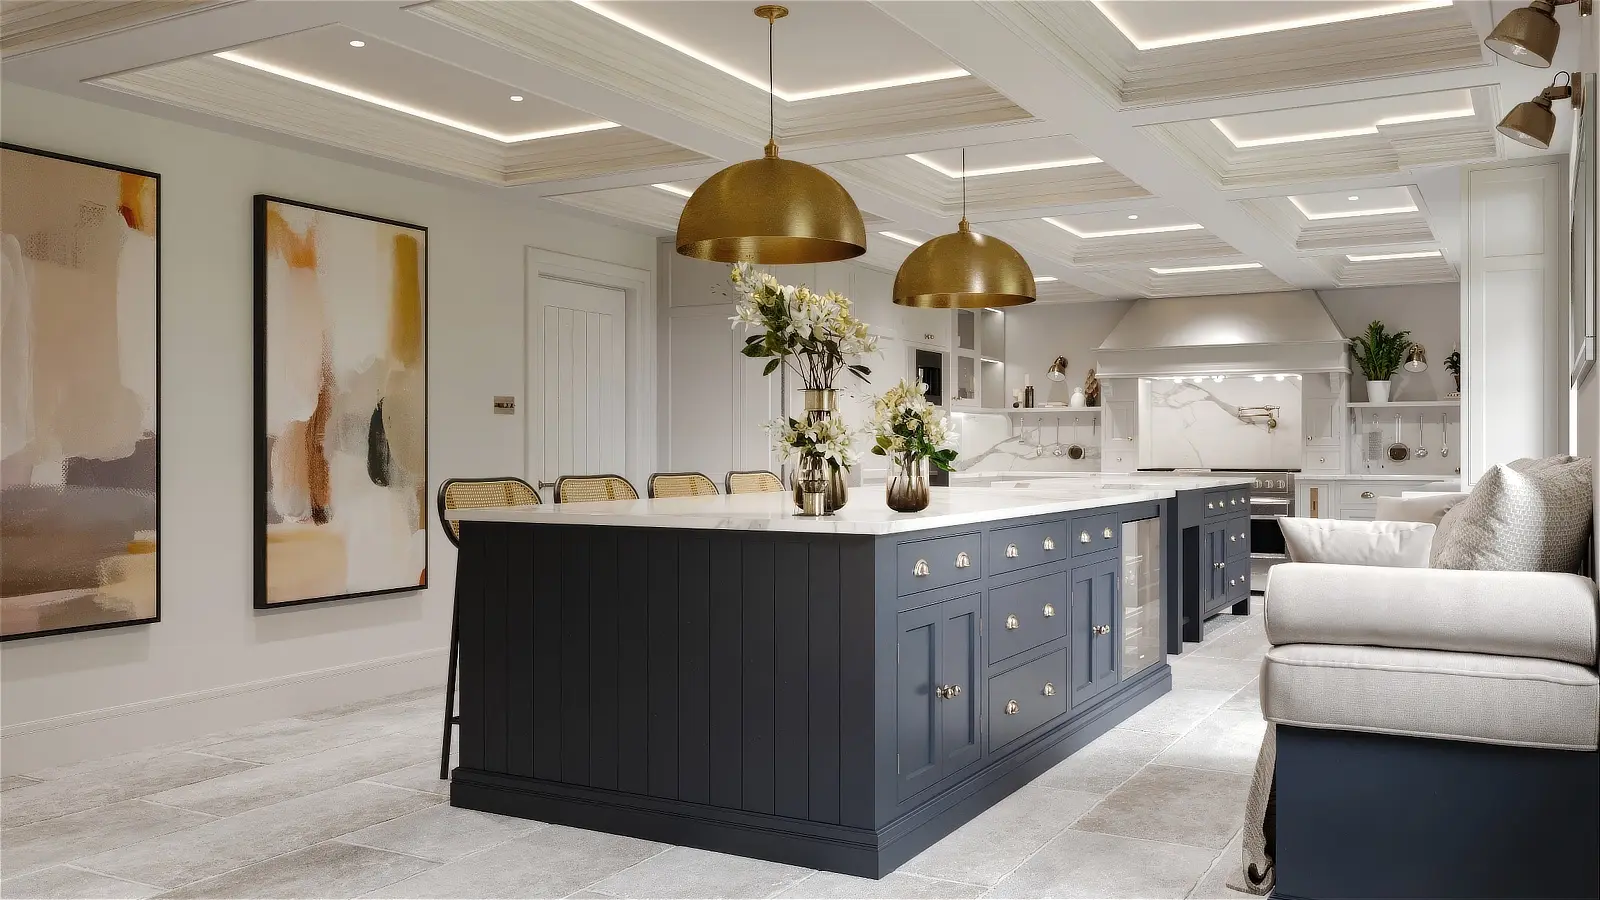
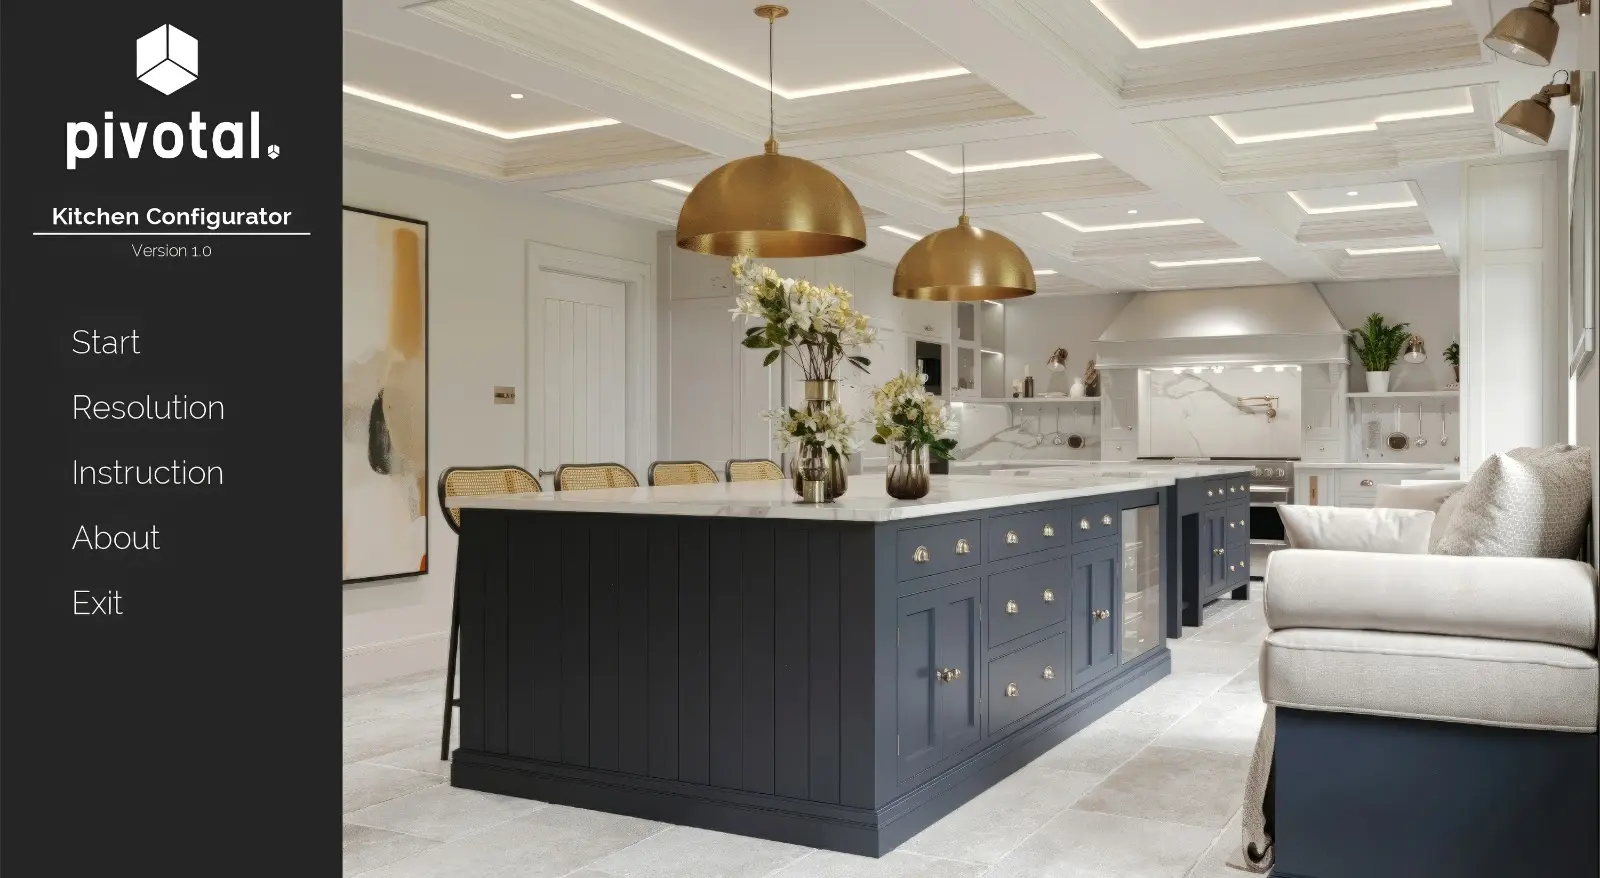
Scrolling Sensitivity Fix

diff --git a/src/hooks/useCarouselScroll.js b/src/hooks/useCarouselScroll.js
@@ -14,17 +14,21 @@ import * as THREE from "three";
 export function useCarouselScroll(centers, totalWidth, options = {}) {
   const {
     snapStrength = 0.04,
-    wheelThreshold = 60,
+    wheelThreshold = 180,
   } = options;
 
   const { gl } = useThree();
 
   const scrollOffset = useRef(0);     // current smoothed scroll position
+  const velocity = useRef(0);
   const selectedIndex = useRef(0);    // which card is "selected"
   const wheelAccum = useRef(0);       // accumulated wheel delta since last step
 
   const scrollDistortion = useRef(0);
   const lastSelected = useRef(0);
+
+  const lastScroll = useRef(0);
+  const SCROLL_DELAY = 250; // ms
 
   const triggerDistortion = () => {
     scrollDistortion.current = 1;
@@ -58,17 +62,22 @@ export function useCarouselScroll(centers, totalWidth, options = {}) {
     const dom = gl.domElement;
 
     const handleWheel = (e) => {
+      const now = performance.now();
+
+      if (now - lastScroll.current < SCROLL_DELAY) return;
+
       wheelAccum.current += e.deltaY;
 
-      if (wheelAccum.current > wheelThreshold) 
-      {
+      if (wheelAccum.current > wheelThreshold) {
         selectNext();
         wheelAccum.current = 0;
-      } 
-      else if (wheelAccum.current < -wheelThreshold) 
-      {
+        lastScroll.current = now;
+      }
+
+      if (wheelAccum.current < -wheelThreshold) {
         selectPrev();
         wheelAccum.current = 0;
+        lastScroll.current = now;
       }
     };
 
@@ -105,6 +114,10 @@ export function useCarouselScroll(centers, totalWidth, options = {}) {
   }, [selectNext, selectPrev]);
 
   useFrame((state, delta) => {
+
+    const stiffness = 18;
+    const damping = 8;
+
     const target = centers[selectedIndex.current];
 
     let diff = target - scrollOffset.current;
@@ -113,8 +126,10 @@ export function useCarouselScroll(centers, totalWidth, options = {}) {
         totalWidth -
       totalWidth / 2;
 
-    const decay = 1 - Math.pow(1 - snapStrength, delta * 60);
-    scrollOffset.current += diff * decay;
+    velocity.current += diff * stiffness * delta;
+    velocity.current *= Math.exp(-damping * delta);
+
+    scrollOffset.current += velocity.current * delta;
 
     // decay distortion
     scrollDistortion.current = THREE.MathUtils.damp(

diff --git a/vite.config.js b/vite.config.js
@@ -5,5 +5,5 @@ import tailwindcss from '@tailwindcss/vite'
 // https://vite.dev/config/
 export default defineConfig({
   plugins: [react(), tailwindcss()],
-  base: process.env.VITE_BASE_PATH || "/madebyshivani"
+  // base: process.env.VITE_BASE_PATH || "/madebyshivani"
 })